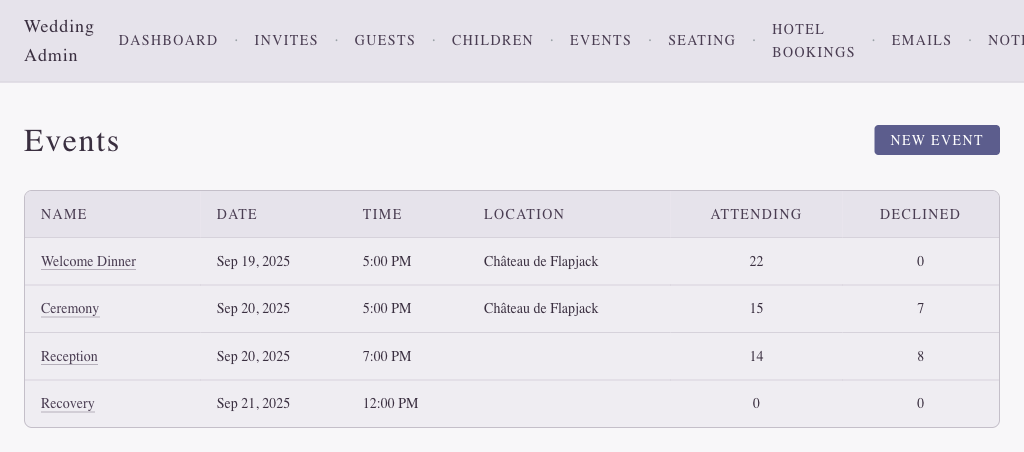
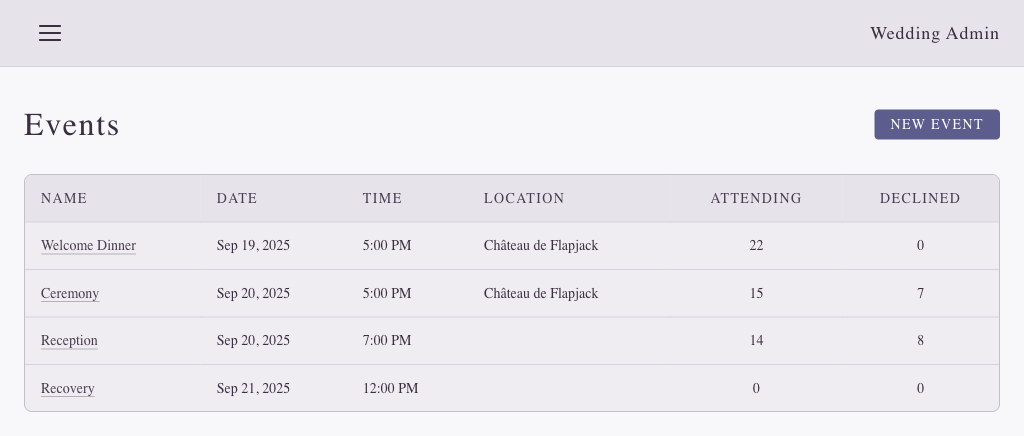
Implement responsive mobile navigation with hamburger menus
- Add hamburger navigation for mobile devices in public and admin layouts
- Create nav_controller.js Stimulus controller to toggle menu open/close states
- Add comprehensive CSS for mobile menu styling (max-width: 768px breakpoint)
- Update app/views/layouts/application.html.erb to use new mobile nav structure
- Update app/views/layouts/admin.html.erb to use collapsible hamburger dropdown
- Update screenshot documentation files (optimized file sizes)

diff --git a/app/assets/stylesheets/wedding.css b/app/assets/stylesheets/wedding.css
@@ -894,3 +894,195 @@ nav a.type-serif-small:hover::after {
   .type-script { font-size: var(--text-5xl); }
   .divider { margin: var(--space-8) 0; }
 }
+
+/* ---------- Mobile Hamburger Nav (public) ---------- */
+.nav-mobile-wrapper {
+  display: contents;
+}
+
+.nav-hamburger {
+  display: none;
+  background: none;
+  border: none;
+  cursor: pointer;
+  padding: 4px;
+  flex-direction: column;
+  gap: 5px;
+  position: absolute;
+  right: var(--space-6);
+}
+
+.nav-hamburger span {
+  display: block;
+  width: 22px;
+  height: 2px;
+  background: var(--color-text-primary);
+  border-radius: 1px;
+  transition: transform var(--transition-base), opacity var(--transition-base);
+}
+
+.nav-links {
+  display: flex;
+  gap: var(--space-6);
+  align-items: center;
+  flex-wrap: wrap;
+  justify-content: center;
+}
+
+@media (max-width: 768px) {
+  nav.sticky {
+    background: transparent !important;
+    border-bottom: none !important;
+    position: static !important;
+    height: 0;
+    overflow: visible;
+    pointer-events: none;
+  }
+
+  nav.sticky > div {
+    padding: 0;
+    min-height: 0;
+  }
+
+  main {
+    padding-top: calc(var(--space-4) + 48px) !important;
+  }
+
+  .nav-mobile-wrapper {
+    display: block;
+    position: fixed;
+    top: var(--space-4);
+    left: 16px;
+    z-index: 100;
+    pointer-events: auto;
+  }
+
+  .nav-hamburger {
+    display: flex;
+    position: static;
+    pointer-events: auto;
+    padding: 12px 14px;
+    background: transparent;
+    border: 1px solid transparent;
+    border-radius: var(--radius-md);
+  }
+
+  .nav-hamburger.nav-tab-open {
+    background: var(--color-bg-secondary);
+    border-color: var(--color-border-light);
+    border-bottom: none;
+    border-radius: var(--radius-md) var(--radius-md) 0 0;
+    margin-bottom: -1px;
+    position: relative;
+    right: auto;
+    z-index: 1;
+  }
+
+  .nav-links {
+    display: none;
+    flex-direction: column;
+    gap: 0;
+    background: var(--color-bg-secondary);
+    border: 1px solid var(--color-border-light);
+    border-radius: 0 var(--radius-md) var(--radius-md) var(--radius-md);
+    box-shadow: 0 4px 12px rgba(0, 0, 0, 0.08);
+    min-width: 220px;
+    align-items: stretch;
+    padding: var(--space-2) 0 var(--space-3);
+  }
+
+  .nav-links a.type-serif-small {
+    padding: var(--space-3) var(--space-6);
+    text-align: left;
+    margin-left: 0 !important;
+    display: block;
+    border-bottom: none;
+    font-size: var(--text-sm);
+    letter-spacing: var(--tracking-wider);
+  }
+
+  .nav-links a.type-serif-small:hover,
+  .nav-links a.type-serif-small:active {
+    background: var(--color-bg-tertiary);
+  }
+
+  .nav-links a.type-serif-small::after {
+    display: none;
+  }
+
+  .nav-links .btn {
+    margin: var(--space-3) var(--space-4) var(--space-3);
+    text-align: center;
+    border-radius: var(--radius-md);
+  }
+
+  .nav-links.nav-open {
+    display: flex;
+  }
+}
+
+/* ---------- Admin Nav (Hamburger Dropdown) ---------- */
+.admin-menu-wrapper {
+  position: relative;
+  z-index: 100;
+}
+
+.admin-nav .admin-hamburger {
+  display: flex;
+  position: static;
+  padding: 12px 14px;
+  background: transparent;
+  border: 1px solid transparent;
+  border-radius: var(--radius-md);
+}
+
+.admin-nav .admin-hamburger.nav-tab-open {
+  background: var(--color-bg-secondary);
+  border-color: var(--color-border-light);
+  border-bottom-color: var(--color-bg-secondary);
+  border-radius: var(--radius-md) var(--radius-md) 0 0;
+}
+
+.admin-nav .admin-nav-links {
+  display: none;
+  flex-direction: column;
+  gap: 0;
+  background: var(--color-bg-secondary);
+  border: 1px solid var(--color-border-light);
+  border-top: none;
+  border-radius: 0 var(--radius-md) var(--radius-md) var(--radius-md);
+  box-shadow: 0 4px 12px rgba(0, 0, 0, 0.08);
+  min-width: 220px;
+  align-items: stretch;
+  padding: var(--space-2) 0 var(--space-3);
+  position: absolute;
+  left: 0;
+  top: 100%;
+}
+
+.admin-nav .admin-nav-links a.type-serif-small {
+  padding: var(--space-3) var(--space-6);
+  text-align: left;
+  display: block;
+  font-size: var(--text-sm);
+  letter-spacing: var(--tracking-wider);
+}
+
+.admin-nav .admin-nav-links a.type-serif-small:hover,
+.admin-nav .admin-nav-links a.type-serif-small:active {
+  background: var(--color-bg-tertiary);
+}
+
+.admin-nav .admin-nav-links a.type-serif-small::after {
+  display: none;
+}
+
+.admin-nav .admin-nav-links .btn {
+  margin: var(--space-3) var(--space-4) var(--space-3);
+  text-align: center;
+  border-radius: var(--radius-md);
+}
+
+.admin-nav .admin-nav-links.nav-open {
+  display: flex;
+}

diff --git a/app/javascript/controllers/nav_controller.js b/app/javascript/controllers/nav_controller.js
@@ -1,0 +1,15 @@
+import { Controller } from "@hotwired/stimulus"
+
+export default class extends Controller {
+  static targets = ["menu", "hamburger"]
+
+  toggle() {
+    this.menuTarget.classList.toggle("nav-open")
+    this.hamburgerTarget.classList.toggle("nav-tab-open")
+  }
+
+  close() {
+    this.menuTarget.classList.remove("nav-open")
+    this.hamburgerTarget.classList.remove("nav-tab-open")
+  }
+}
